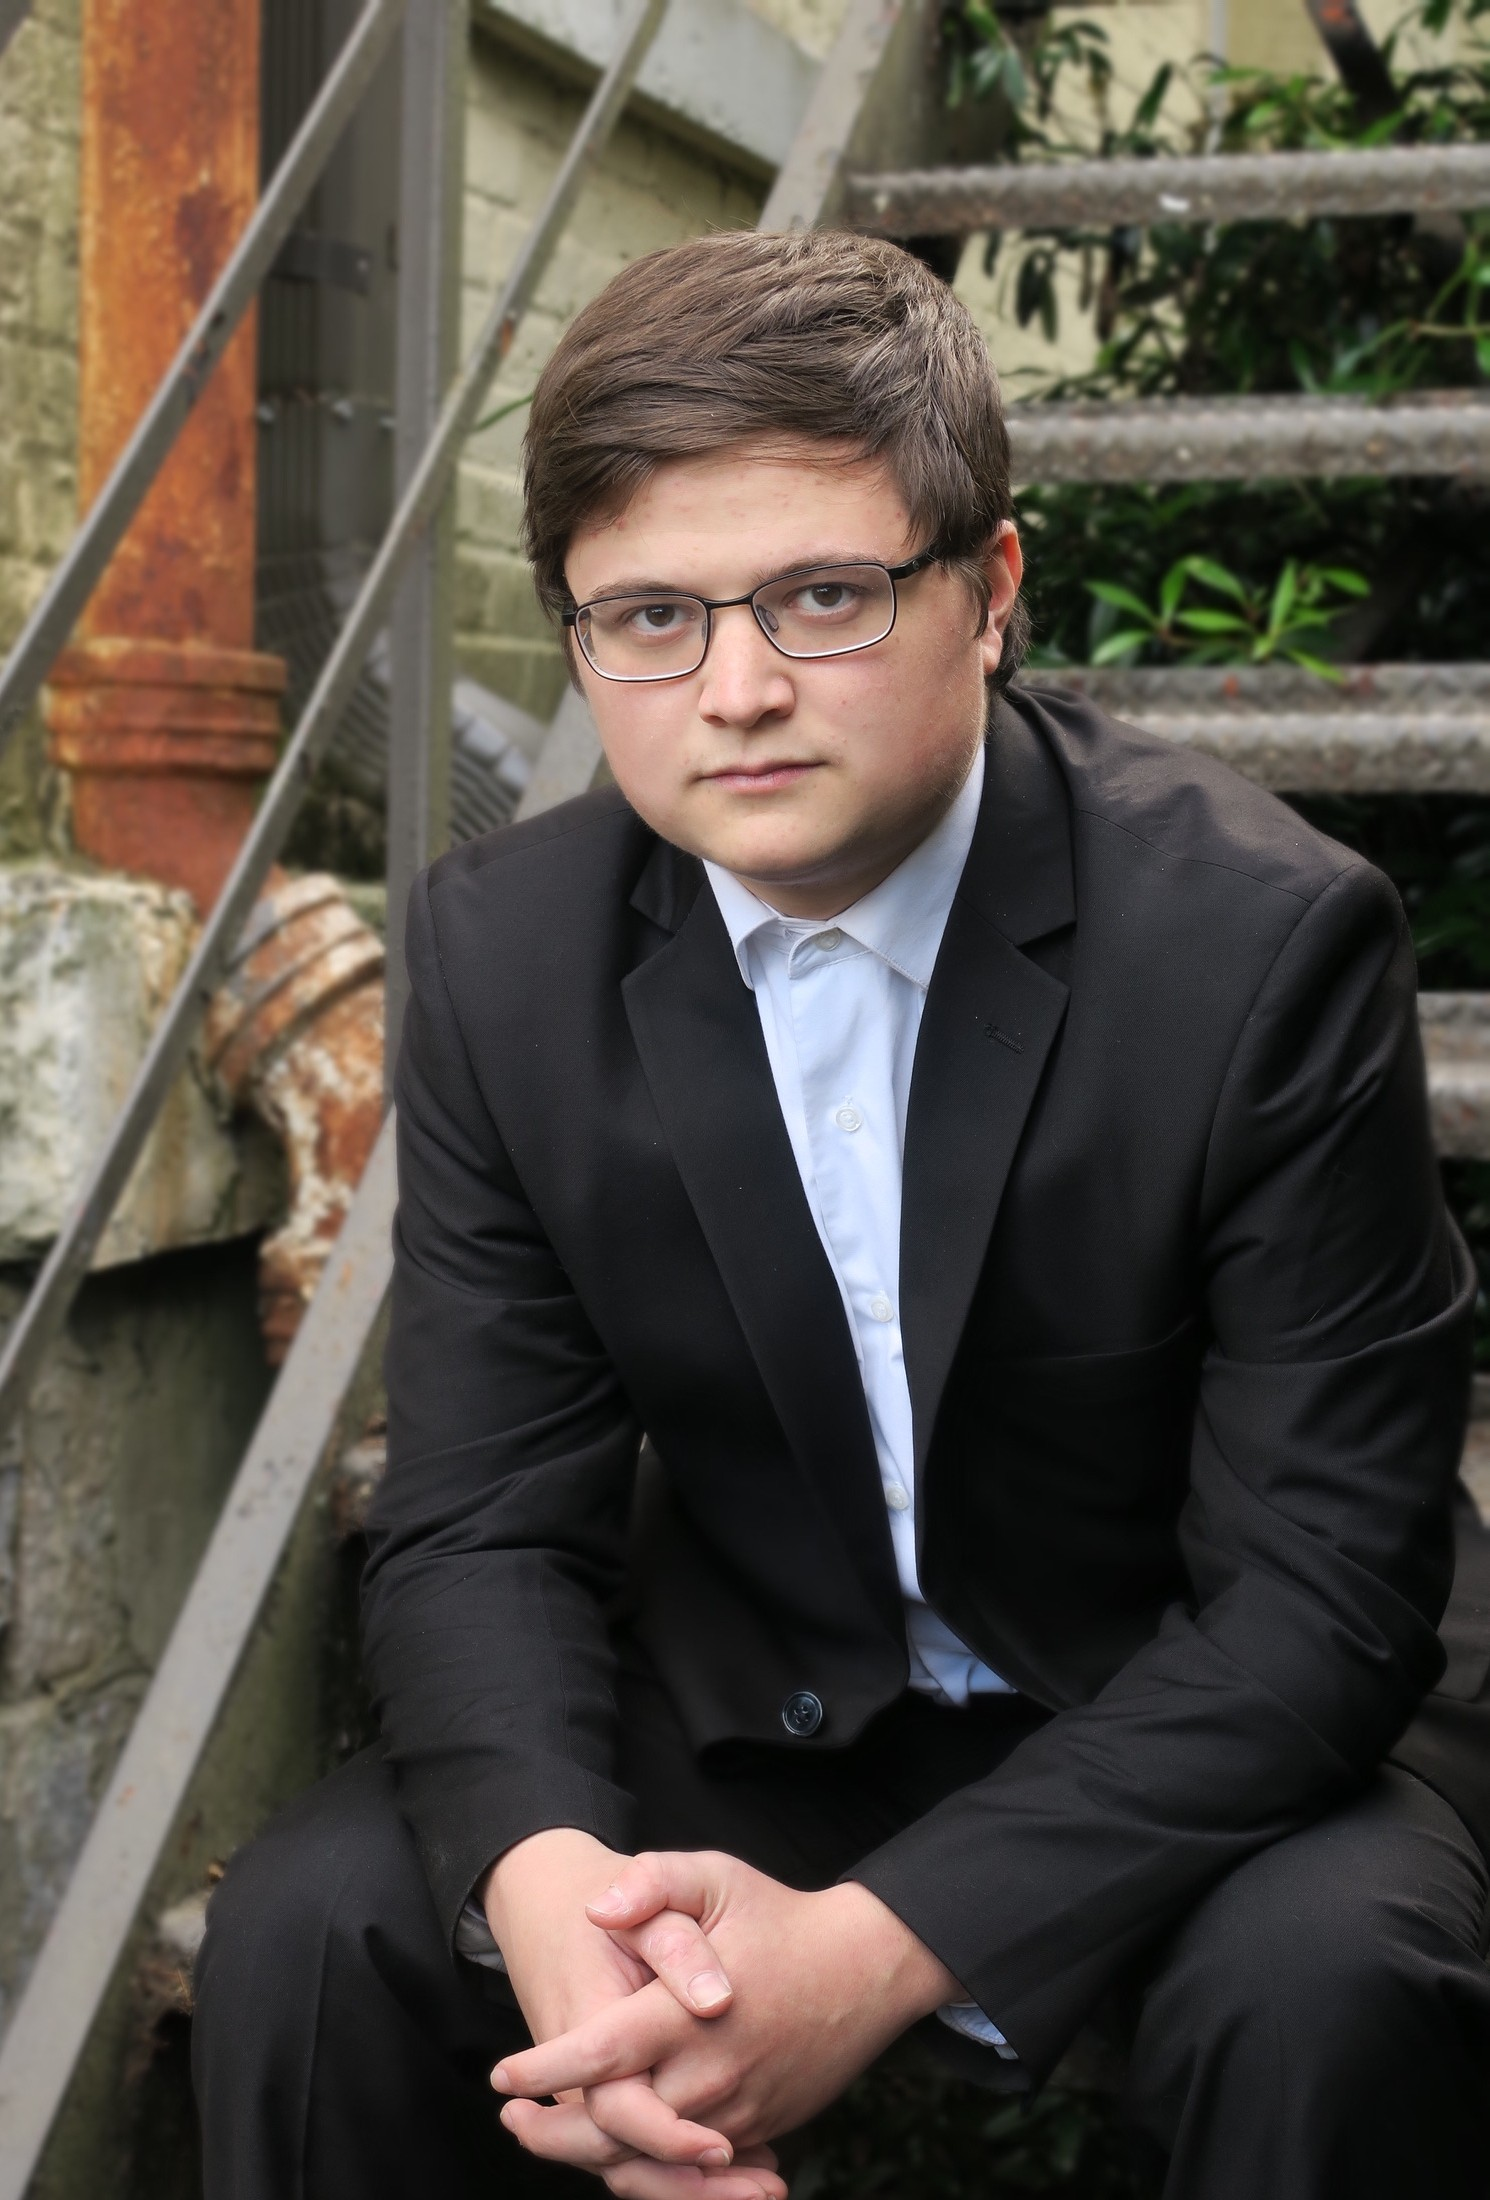
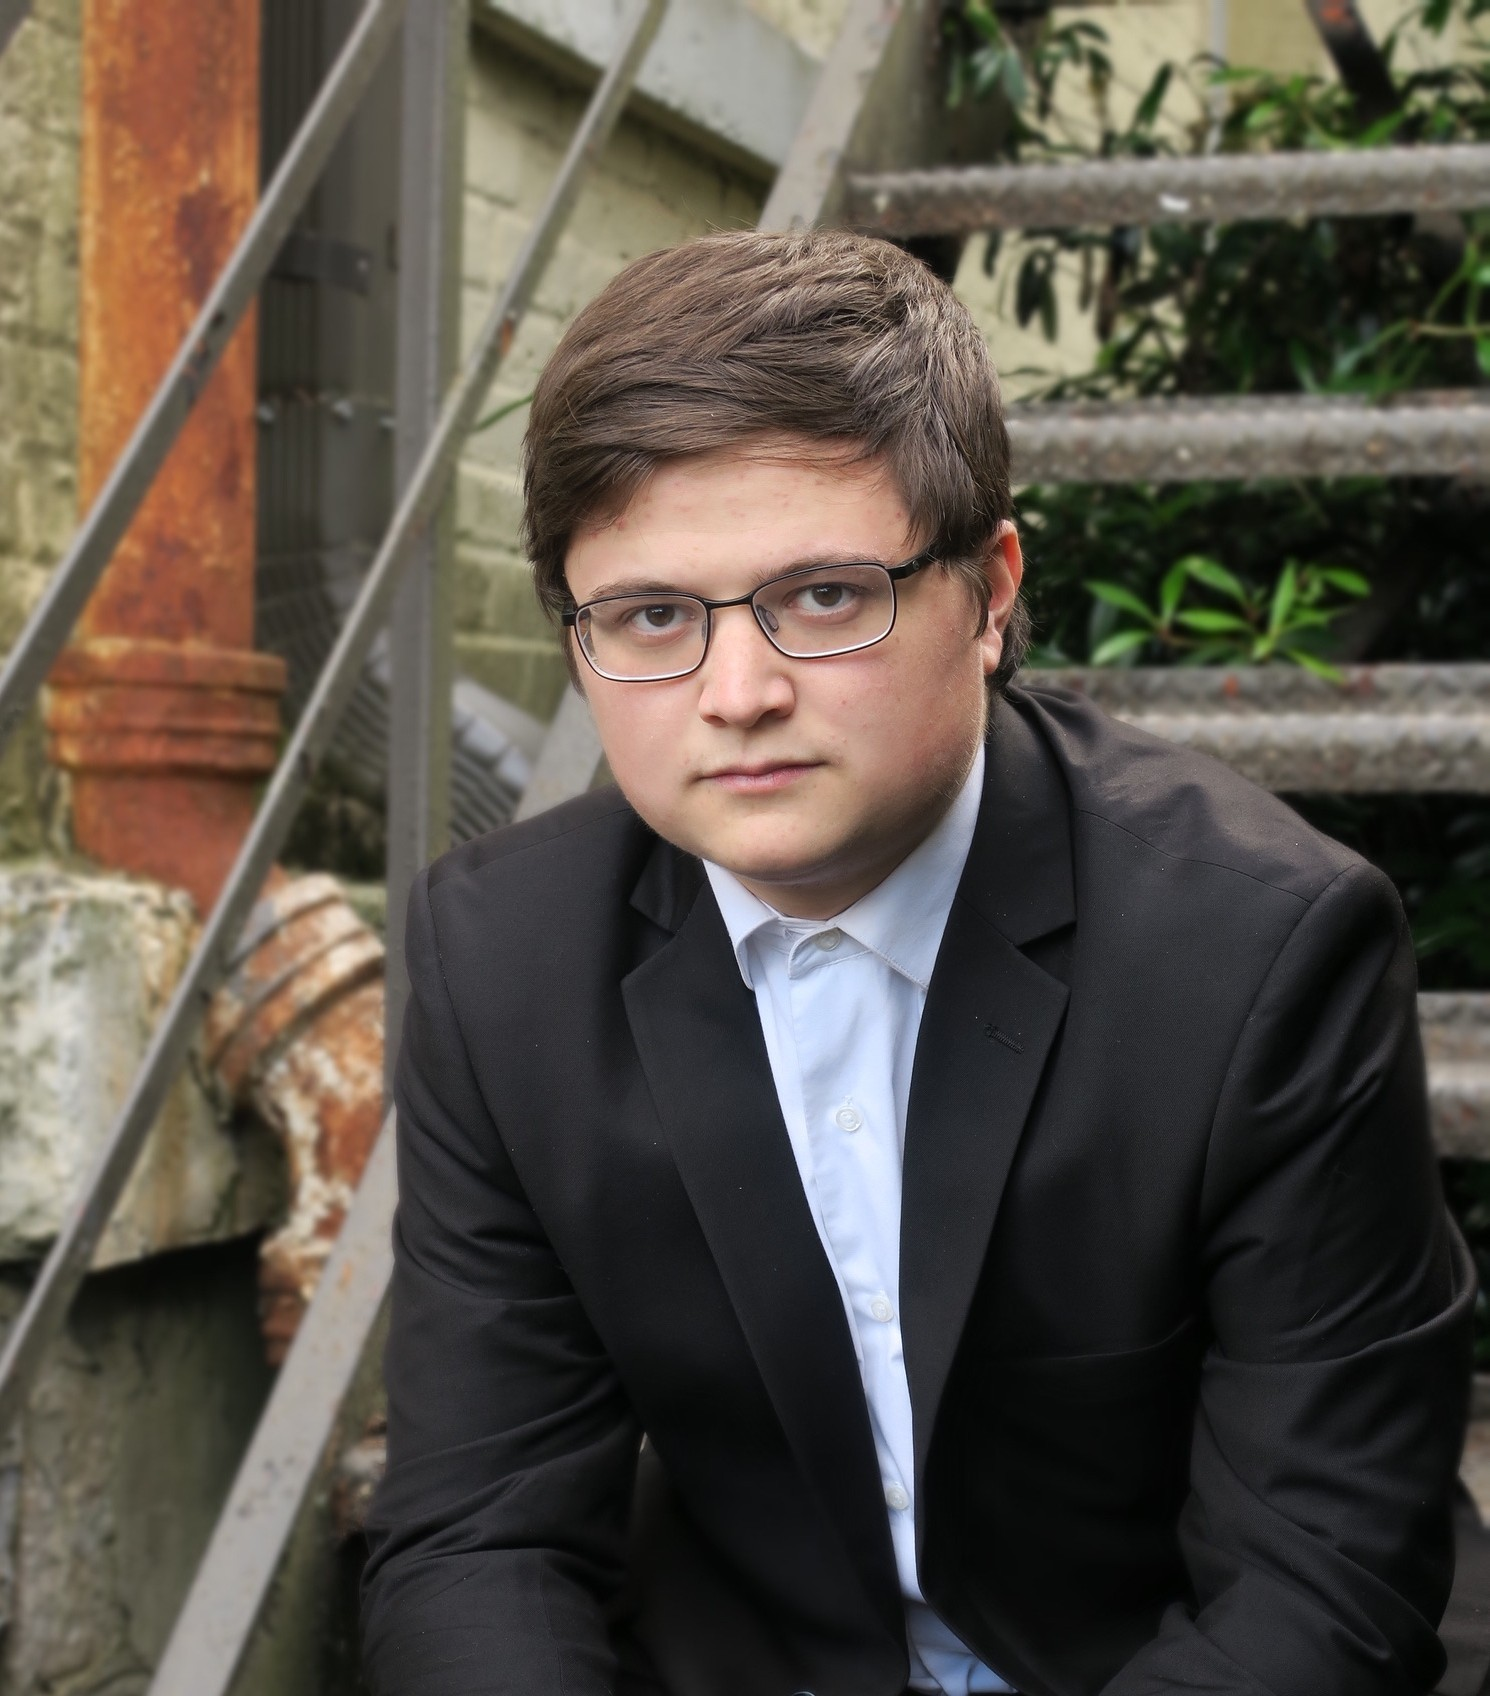
Implemented criticism
Changed the dark mode to be dimmer. Made projects wider to give more buffer between text and image, as well as image and edge of frame. Also trimmed intro headshot and raised contacts section.

diff --git a/Scripts/projectElementFactory.js b/Scripts/projectElementFactory.js
@@ -58,7 +58,7 @@ function createProjectElement(
   //Create a border between the first and third row
   const underline = document.createElement("hr");
   underline.className = "underline";
-  underline.style = "height: 0.2vh; width:35.11vw; grid-row:2;";
+  underline.style = "height: 0.2vh; width:35.91vw; grid-row:2;";
   projectDiv.append(underline);
 
   //If the webpage is not opened by a phone, add an image with the relative path, imageSource
@@ -66,7 +66,7 @@ function createProjectElement(
     const image = document.createElement("img");
     image.src = imageSource;
     image.style =
-      "height: 25vh; width:15vw; grid-row:3; grid-column:2; margin-top:10px; border:3px solid blue";
+      "height: 25vh; width:15vw; grid-row:3; grid-column:2; margin-top:10px; border:3px solid blue; margin-left:0.5vw";
     projectDiv.append(image);
   }
 
@@ -75,7 +75,7 @@ function createProjectElement(
   description.style =
     "grid-column:1; font-size:15px; width: " +
     (phone ? "33vw" : "20vw") +
-    "; height:32vh;overflow:auto";
+    "; height:32vh;overflow:auto; margin-top:0.5vh";
   description.textContent =
     text === ""
       ? "Lorem, ipsum dolor sit amet consectetur adipisicing elit. Pariatur" +
@@ -153,61 +153,6 @@ createProjectElement(
 );
 createProjectElement(
   2,
-  "JANUARY 2025 - PRESENT",
-  "Electronic ARTrium",
-  "./Images/beeMyGuidePic.png",
-  "This project is a series of works with the multi-disciplinary team Electronic ARTrium. " +
-    "This team works to create interactive, educational experiences that mix physical and digital artistic mediums. " +
-    "With this team, I worked on the Spring 2025 exhibit Bee My Guide as a member of the Visual Art and Design subteam. " +
-    "I was tasked using Unity and C# to design NPC character animations." +
-    " Additionally, I am currently working as the team lead of the Creative Ideation subteam, working " +
-    "to create and plan for the next exhibit to be announced soon.",
-  "https://github.gatech.edu/VIP-Electronic-Artrium",
-  "https://electronicartrium.ece.gatech.edu/bee-my-guide/"
-);
-createProjectElement(
-  3,
-  "JANUARY 2025 - MAY 2025",
-  "Mourning Brew",
-  "Images/mourningBrew.png",
-  "Mourning Brew is a small indie game developed by a team of Georgia Tech students as part of the Video Game Development Club. " +
-    "The game follows the journey of afterlife cafe owner and compiles a ton of fun mini games to be enjoyed. " +
-    "As a member of " +
-    "the team, I was a software developer who used C# and Unity and was tasked with designing the movement and walking animations of the " +
-    "characters. Additionally, I worked on the mini games, most notably I solo designed a rhythm based, baking simulation for the late game content.",
-  "https://github.com/cpeng87/Untitled-Ghost-Game",
-  "https://cpeng8.itch.io/mourning-brew",
-  "./Projects/Build 7.22.zip"
-);
-createProjectElement(
-  4,
-  "JUNE 2025 - AUGUST 2025",
-  "Political Ideology Calculator",
-  "Images/politicalIdeologyShowcase.png",
-  "This project is a webpage that is designed to take user input on a number of political axes." +
-    " The user provides the numeric values, which generate specific " +
-    "ideologies, and the Gemini AI API is called to generate an all encompassing political ideology. " +
-    "This project was made with JavaScript, HTML, and CSS and implements coding concepts such as binary trees, API usage, " +
-    "and interpreting multi-dimensional data. The remaining updates I will continue to add are" +
-    " increasingly specific political ideology to grant the user more specificity.",
-  "https://github.com/ccopley04/PoliticalIdeologyCalculator",
-  "https://ccopley04.github.io/PoliticalIdeologyCalculator/"
-);
-createProjectElement(
-  5,
-  "OCTOBER 2024 - PRESENT",
-  "Three Two One...Draw!",
-  "./Images/threeTwoOneDrawPic.png",
-  "Three Two One…Draw is my own indie game that I am currently developing as the Design and Software Lead. " +
-    "It is a deck building RPG that simulates a real time Western style duel with card mechanics and thematic music and art. " +
-    "I have developed a working demo with C# and Unity that showcases the main design of the game, such as deck composition, multiple " +
-    "coroutines for time tracking, and an object oriented software architecture. I have also written a thorough game design document that " +
-    "pitches the game and is used to find other members for development, such as my new artist and story director.",
-  "https://github.com/ccopley04/ThreeTwoOneDraw",
-  "https://docs.google.com/document/d/1XyJsGtp7-YXZqh4WxrxR8-FoTENTwVMhkC44NEyeQkA/edit?usp=sharing"
-);
-createProjectElement(
-  6,
   "MAY 2025 - PRESENT",
   "Slay The Spire Mod",
   "./Images/stsModPic.png",
@@ -221,20 +166,63 @@ createProjectElement(
   "https://github.com/ccopley04/STS_Mod_Tank"
 );
 createProjectElement(
-  7,
-  "AUGUST 2024 - NOVEMBER 2024",
-  "Humanities Website",
-  "./Images/humanitiesWebsitePic.png",
-  "This project is a website designed and populated by a team of six for a humanities class that seeks to concisely " +
-    "describe love and analyze various works. I worked as the Team Lead and Chief Website Designer of the group and, using " +
-    "the software Weebly, designed our UI. Without any coding required, I was able to design and create a user-friendly, " +
-    "aesthetic web page that clearly showcases our group's progress and discussions. Additionally, as the Team Lead, I managed the " +
-    "members and ensured all the needed work was completed and I worked to define the creative vision for the entire project.",
-  "",
-  "https://humn2010group2.weebly.com/"
+  3,
+  "JANUARY 2025 - PRESENT",
+  "Electronic ARTrium",
+  "./Images/beeMyGuidePic.png",
+  "This project is a series of works with the multi-disciplinary team Electronic ARTrium. " +
+    "This team works to create interactive, educational experiences that mix physical and digital artistic mediums. " +
+    "With this team, I worked on the Spring 2025 exhibit Bee My Guide as a member of the Visual Art and Design subteam. " +
+    "I was tasked using Unity and C# to design NPC character animations." +
+    " Additionally, I am currently working as the team lead of the Creative Ideation subteam, working " +
+    "to create and plan for the next exhibit to be announced soon.",
+  "https://github.gatech.edu/VIP-Electronic-Artrium",
+  "https://electronicartrium.ece.gatech.edu/bee-my-guide/"
+);
+
+createProjectElement(
+  4,
+  "OCTOBER 2024 - PRESENT",
+  "Three Two One...Draw!",
+  "./Images/threeTwoOneDrawPic.png",
+  "Three Two One…Draw is my own indie game that I am currently developing as the Design and Software Lead. " +
+    "It is a deck building RPG that simulates a real time Western style duel with card mechanics and thematic music and art. " +
+    "I have developed a working demo with C# and Unity that showcases the main design of the game, such as deck composition, multiple " +
+    "coroutines for time tracking, and an object oriented software architecture. I have also written a thorough game design document that " +
+    "pitches the game and is used to find other members for development, such as my new artist and story director.",
+  "https://github.com/ccopley04/ThreeTwoOneDraw",
+  "https://docs.google.com/document/d/1XyJsGtp7-YXZqh4WxrxR8-FoTENTwVMhkC44NEyeQkA/edit?usp=sharing"
 );
 createProjectElement(
-  8,
+  5,
+  "JUNE 2025 - AUGUST 2025",
+  "Political Ideology Calculator",
+  "Images/politicalIdeologyShowcase.png",
+  "This project is a webpage that is designed to take user input on a number of political axes." +
+    " The user provides the numeric values, which generate specific " +
+    "ideologies, and the Gemini AI API is called to generate an all encompassing political ideology. " +
+    "This project was made with JavaScript, HTML, and CSS and implements coding concepts such as binary trees, API usage, " +
+    "and interpreting multi-dimensional data. The remaining updates I will continue to add are" +
+    " increasingly specific political ideology to grant the user more specificity.",
+  "https://github.com/ccopley04/PoliticalIdeologyCalculator",
+  "https://ccopley04.github.io/PoliticalIdeologyCalculator/"
+);
+createProjectElement(
+  6,
+  "JANUARY 2025 - MAY 2025",
+  "Mourning Brew",
+  "Images/mourningBrew.png",
+  "Mourning Brew is a small indie game developed by a team of Georgia Tech students as part of the Video Game Development Club. " +
+    "The game follows the journey of afterlife cafe owner and compiles a ton of fun mini games to be enjoyed. " +
+    "As a member of " +
+    "the team, I was a software developer who used C# and Unity and was tasked with designing the movement and walking animations of the " +
+    "characters. Additionally, I worked on the mini games, most notably I solo designed a rhythm based, baking simulation for the late game content.",
+  "https://github.com/cpeng87/Untitled-Ghost-Game",
+  "https://cpeng8.itch.io/mourning-brew",
+  "./Projects/Build 7.22.zip"
+);
+createProjectElement(
+  7,
   "APRIL 2025 - MAY 2025",
   "Notes Application",
   "./Images/notesApplicationPic.png",
@@ -247,4 +235,17 @@ createProjectElement(
   "",
   "",
   "./Projects/NotesApplication.zip"
+);
+createProjectElement(
+  8,
+  "AUGUST 2024 - NOVEMBER 2024",
+  "Humanities Website",
+  "./Images/humanitiesWebsitePic.png",
+  "This project is a website designed and populated by a team of six for a humanities class that seeks to concisely " +
+    "describe love and analyze various works. I worked as the Team Lead and Chief Website Designer of the group and, using " +
+    "the software Weebly, designed our UI. Without any coding required, I was able to design and create a user-friendly, " +
+    "aesthetic web page that clearly showcases our group's progress and discussions. Additionally, as the Team Lead, I managed the " +
+    "members and ensured all the needed work was completed and I worked to define the creative vision for the entire project.",
+  "",
+  "https://humn2010group2.weebly.com/"
 );

diff --git a/index.html b/index.html
@@ -13,12 +13,10 @@
         width:24vw;
         margin-left: 38vw;
         margin-top: 3vh;
-        border:0.5vh solid black;
         text-align: center;
       }
       .dark-mode #connectPrompt{
         background-color: black;
-        border:0.5vh solid lightblue;
         color:white;
       }
       #bottom{
@@ -77,7 +75,7 @@
            the projects such that this webpage will continue to be a timely look into my progress as a developer.  
           <hr id="intro-separator"/>
           <div id="contacts"></div>
-          <div style="padding-top: 10vh;"></div>
+          <div style="padding-top: 3vh;"></div>
           <img id="linkPic"/>
         </span>
 

diff --git a/CSSFolder/projectLayout.css b/CSSFolder/projectLayout.css
@@ -3,13 +3,13 @@
 }
 
 #projects .project {
-  width: 35.2vw;
+  width: 36vw;
   height: 35vh;
   background-color: white;
   margin-left: 7.5vw;
   margin-right: 7.5vw;
   display: grid;
-  grid-template-columns: 20vw 1vw 14vw;
+  grid-template-columns: 20vw 1.1vw 14.9vw;
   grid-template-rows: 2vh 1.2vh 2fr;
   border: 0.2vw solid black;
   font-size: 1.1vmax;

diff --git a/CSSFolder/body.css b/CSSFolder/body.css
@@ -5,6 +5,6 @@ body {
   display: flex;
 }
 .dark-mode {
-  background-color: darkblue;
+  background-color: rgb(28, 28, 81);
   color: lightblue;
 }

diff --git a/CSSFolder/switch.css b/CSSFolder/switch.css
@@ -36,7 +36,7 @@
 }
 
 input:checked + .slider {
-  background-color: darkblue;
+  background-color: rgb(28, 28, 81);
 }
 
 input:focus + .slider {

diff --git a/CSSFolder/intro.css b/CSSFolder/intro.css
@@ -13,7 +13,7 @@
 }
 #headshot {
   width: 18vmax;
-  height: 30vmax;
+  height: 20vmax;
 }
 #intro #nameTitle {
   font-size: 5vmax;
